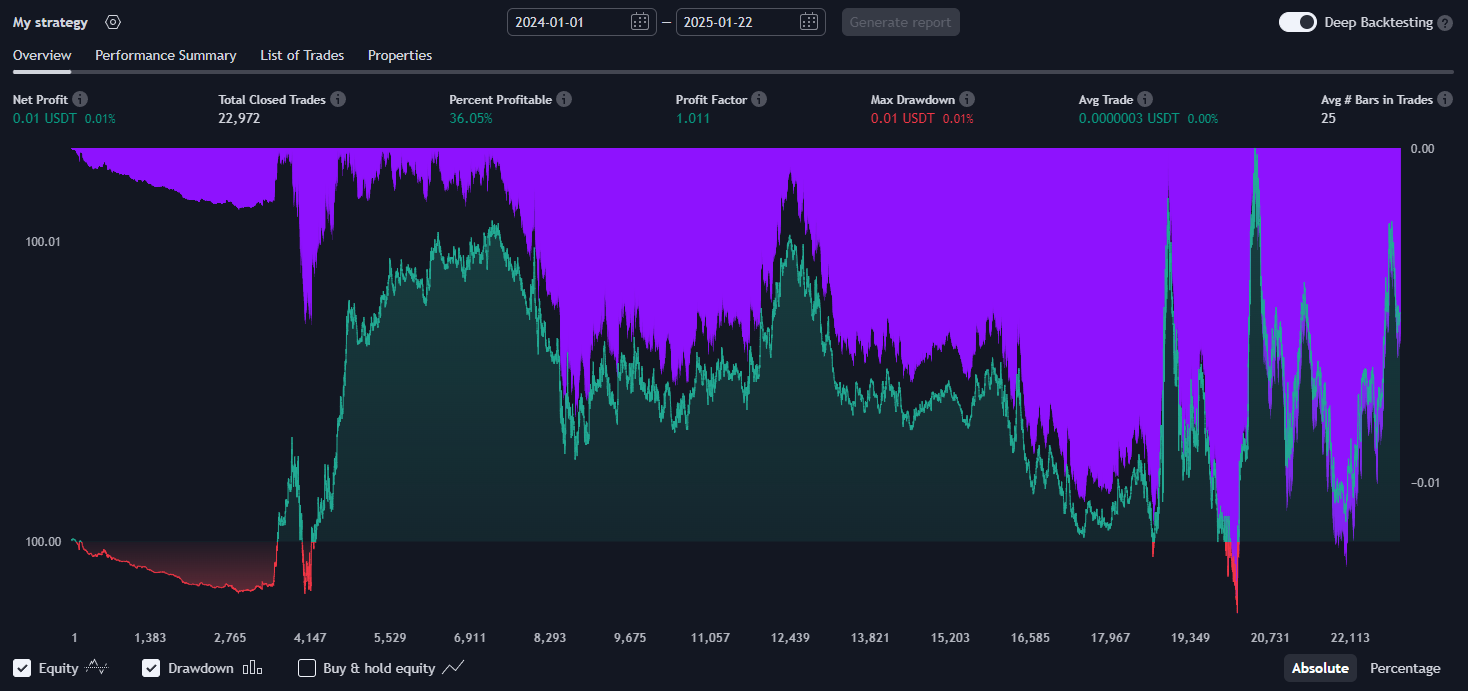
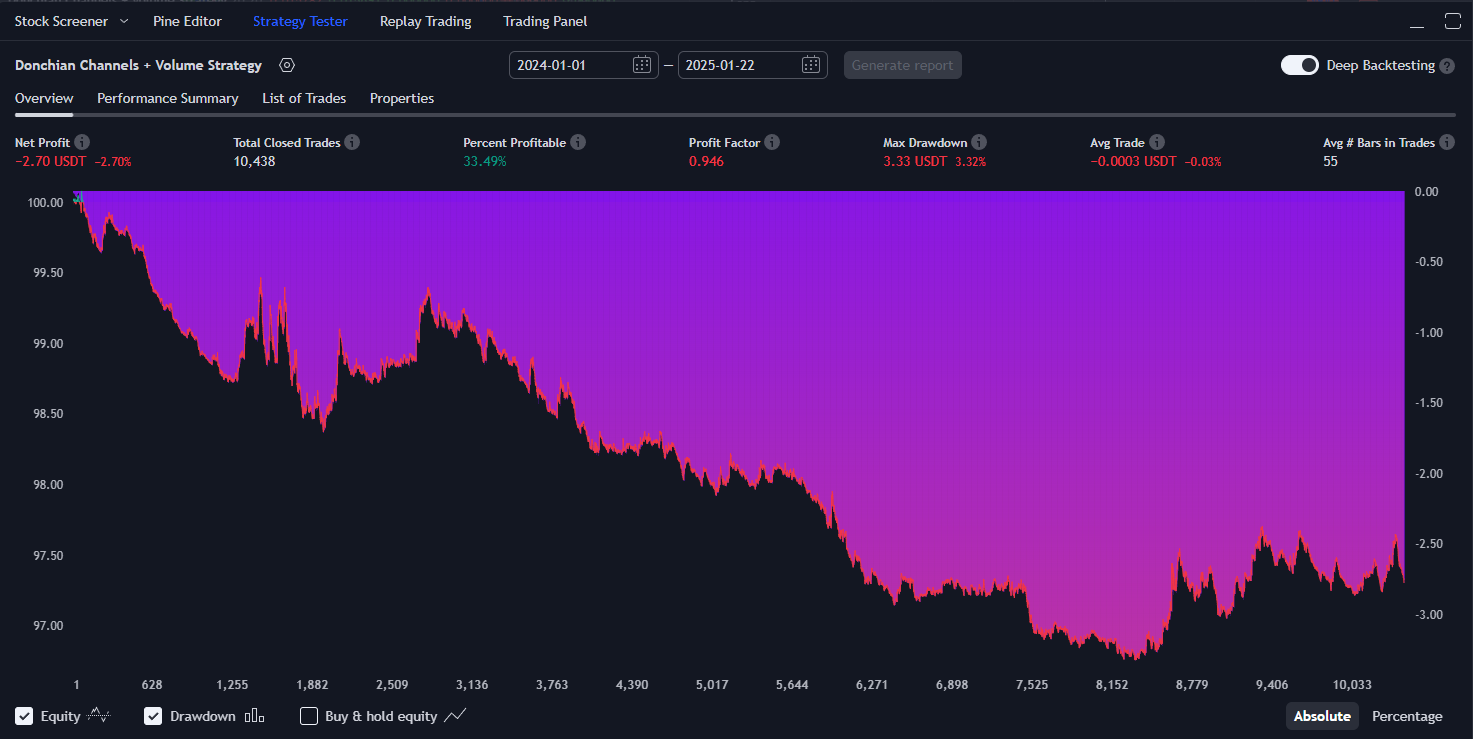
update

diff --git a/index.html b/index.html
@@ -371,16 +371,16 @@
 
                 <div class="card" onclick="openModal(this)">
                     <img src="Donchian Channels + Volume Strategy 1000PEPEUSDT (1 year).png" alt="Donchian Channels + Volume Strategy">
-                    <h3 class="status-break-even">Donchian Channels + Volume Strategy</h3>
+                    <h3 class="status-non-profitable">Donchian Channels + Volume Strategy</h3>
                     <p><strong>Tested on:</strong> 1000PEPEUSDT</p>
-                    <p><strong>Status:</strong> Break-even</p>
+                    <p><strong>Status:</strong> Not Profitable</p>
                     <p><strong>On Bybit:</strong> YES</p>
                     <p><strong>Indicator(s):</strong> Donchian Channels + Volume</p>
                     <p><strong>Type of strategy:</strong> Breakout and Volume Confirmation Strategy</p>
                     <p><strong>Trading Time Frame:</strong> 1M</p>
-                    <p><strong>Number of Trades:</strong> 22972 (1 year)</p>
+                    <p><strong>Number of Trades:</strong> 10438 (1 year)</p>
                     <p><strong>TP/SL:</strong> Crossover</p>
-                    <p><strong>Strategy success (%):</strong> 36.05%</p>
+                    <p><strong>Strategy success (%):</strong> 33.49%</p>
                     <p><strong>Inspired by:</strong> SELF MADE</p>
                 </div>
 
